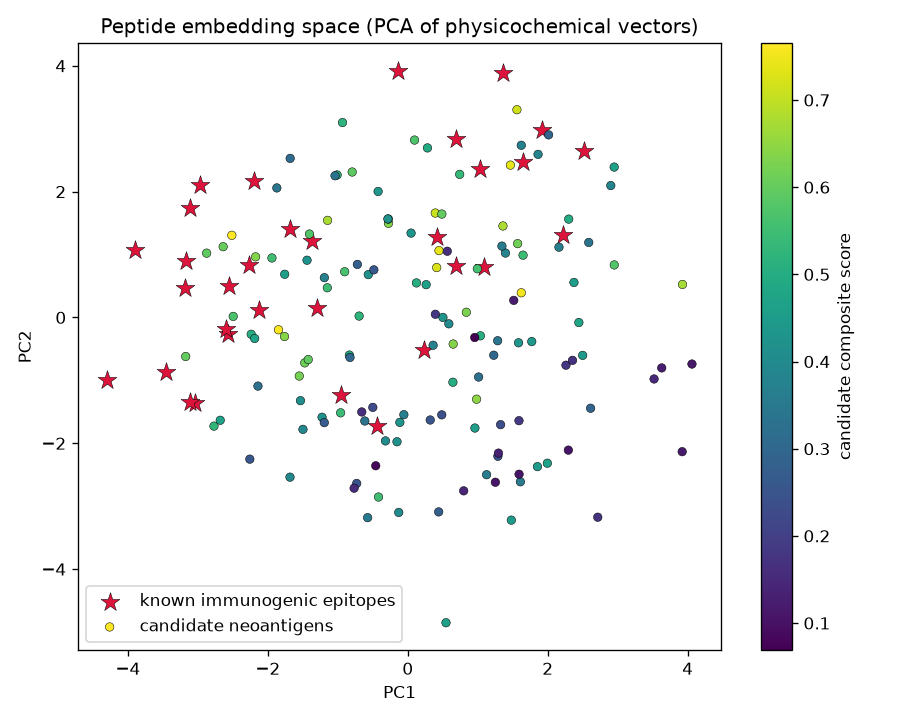
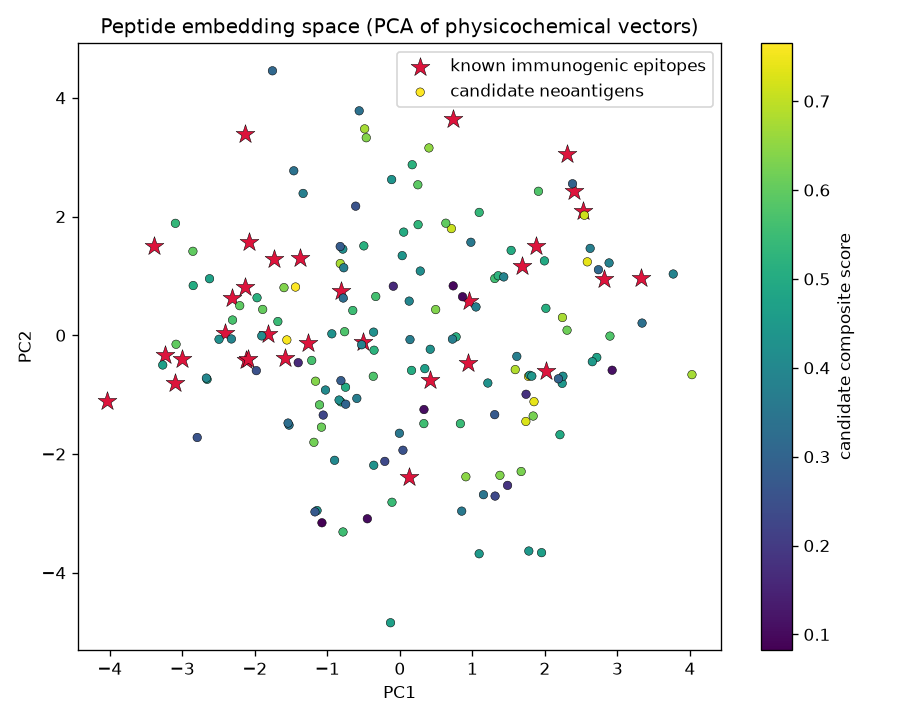
Add validation figure: scoring separates known immunogenic epitopes from random peptides
- New notebook 'Validation' section + figures/fig_d_validation.png
- Regenerate notebook/figures against current 16-mutation data
- Report outline references the validation result (0.92 vs 0.38; 100% vs 10%)

diff --git a/scripts/build_notebook.py b/scripts/build_notebook.py
@@ -237,6 +237,48 @@ print(vaccine["construct"])
 """)
 
 md(r"""
+## Validation — does the scoring capture real immunology?
+
+There is no clinical ground truth for these candidates, so instead we test the *method's*
+behaviour: if the binding heuristic is meaningful, the 32 **known immunogenic** reference
+epitopes should score far higher than random peptides drawn from the same proteins. They do —
+a clean separation, which is face-validity evidence that the scorer reflects the real
+HLA-A\*02:01 motif rather than noise. (This validates the method, not any individual candidate.)
+""")
+
+code(r"""
+from vaxsim import binding_score
+from vaxsim.features import PEPTIDE_LENGTH
+
+rng = np.random.default_rng(0)
+seqs = list(proteins.values())
+rand_peptides = []
+while len(rand_peptides) < 2000:
+    s = seqs[rng.integers(len(seqs))]
+    i = int(rng.integers(0, len(s) - PEPTIDE_LENGTH))
+    p = s[i:i + PEPTIDE_LENGTH]
+    if all(c in "ACDEFGHIKLMNPQRSTVWY" for c in p):
+        rand_peptides.append(p)
+
+ref_binding = np.array([binding_score(p) for p, _, _ in REFERENCE_EPITOPES])
+rand_binding = np.array([binding_score(p) for p in rand_peptides])
+print(f"known immunogenic epitopes: mean {ref_binding.mean():.3f}  ({(ref_binding>=0.71).mean()*100:.0f}% >= 0.71)")
+print(f"random proteome 9-mers    : mean {rand_binding.mean():.3f}  ({(rand_binding>=0.71).mean()*100:.0f}% >= 0.71)")
+
+fig, ax = plt.subplots(figsize=(7, 4.5))
+ax.hist(rand_binding, bins=20, density=True, alpha=0.6, color="#999999",
+        label=f"random proteome 9-mers (n={len(rand_binding)})")
+ax.hist(ref_binding, bins=12, density=True, alpha=0.75, color="#2471A3",
+        label=f"known immunogenic epitopes (n={len(ref_binding)})")
+ax.axvline(0.71, color="#C0392B", linestyle="--", linewidth=1, label="strong-binder threshold")
+ax.set_xlabel("HLA-A*02:01 binding score (heuristic)")
+ax.set_ylabel("density")
+ax.set_title("Validation: scoring separates known immunogenic epitopes from random peptides")
+ax.legend(fontsize=8)
+plt.tight_layout(); plt.savefig(f"{FIG}/fig_d_validation.png"); plt.show()
+""")
+
+md(r"""
 ## Conclusions
 
 *(Write this section in your own words for the report.)* Talking points grounded in the run above:

diff --git a/REPORT_OUTLINE.md b/REPORT_OUTLINE.md
@@ -46,6 +46,10 @@ Pipeline with a Vector Database."* Then both team member names, alphabetical by 
   targets are upper-right.
 - **Figure (c)** `figures/fig_c_embedding_pca.png` — PCA; high-scoring candidates fall
   among known immunogenic epitopes (the central thesis, visually).
+- **Figure (d)** `figures/fig_d_validation.png` — **validation**: the binding heuristic scores
+  the 32 known immunogenic epitopes far higher than random proteome 9-mers (mean 0.92 vs 0.38;
+  100% vs 10% above the strong-binder threshold). Face-validity that the method captures real
+  HLA-A\*02:01 immunology — *not* clinical validation of any single candidate. Strongest "it works" result.
 - Table: top candidates (from `data/candidate_neoantigens.csv`). Discuss specific hits,
   e.g. **HER2 S310F → GFCTLVCPL**, nearest known = **GLCTLVAML (EBV BMLF1)**, composite 0.77;
   **KRAS G12V → LVVVGAVGV**. Note EGFR/HER2 tie back to the Yale vaccine targets.
@@ -65,6 +69,8 @@ Pipeline with a Vector Database."* Then both team member names, alphabetical by 
 - Vector DB: **32** known immunogenic epitopes (8 viral, 24 tumor).
 - Top candidate: **HER2 S310F / GFCTLVCPL**, composite **0.7652**.
 - Final vaccine: **8 epitopes**, **93 aa** string-of-beads construct.
+- Validation: known immunogenic epitopes mean binding **0.92** (100% ≥ 0.71) vs random 9-mers **0.38** (10% ≥ 0.71).
+- Runtime: **~0.1 s** to score all candidates on CPU (no GPU); fully reproducible.
 
 ## Submission checklist (Gradescope, due Mon Jun 15 11:59 PM)
 - [ ] 5+ page report (PDF) — your prose.